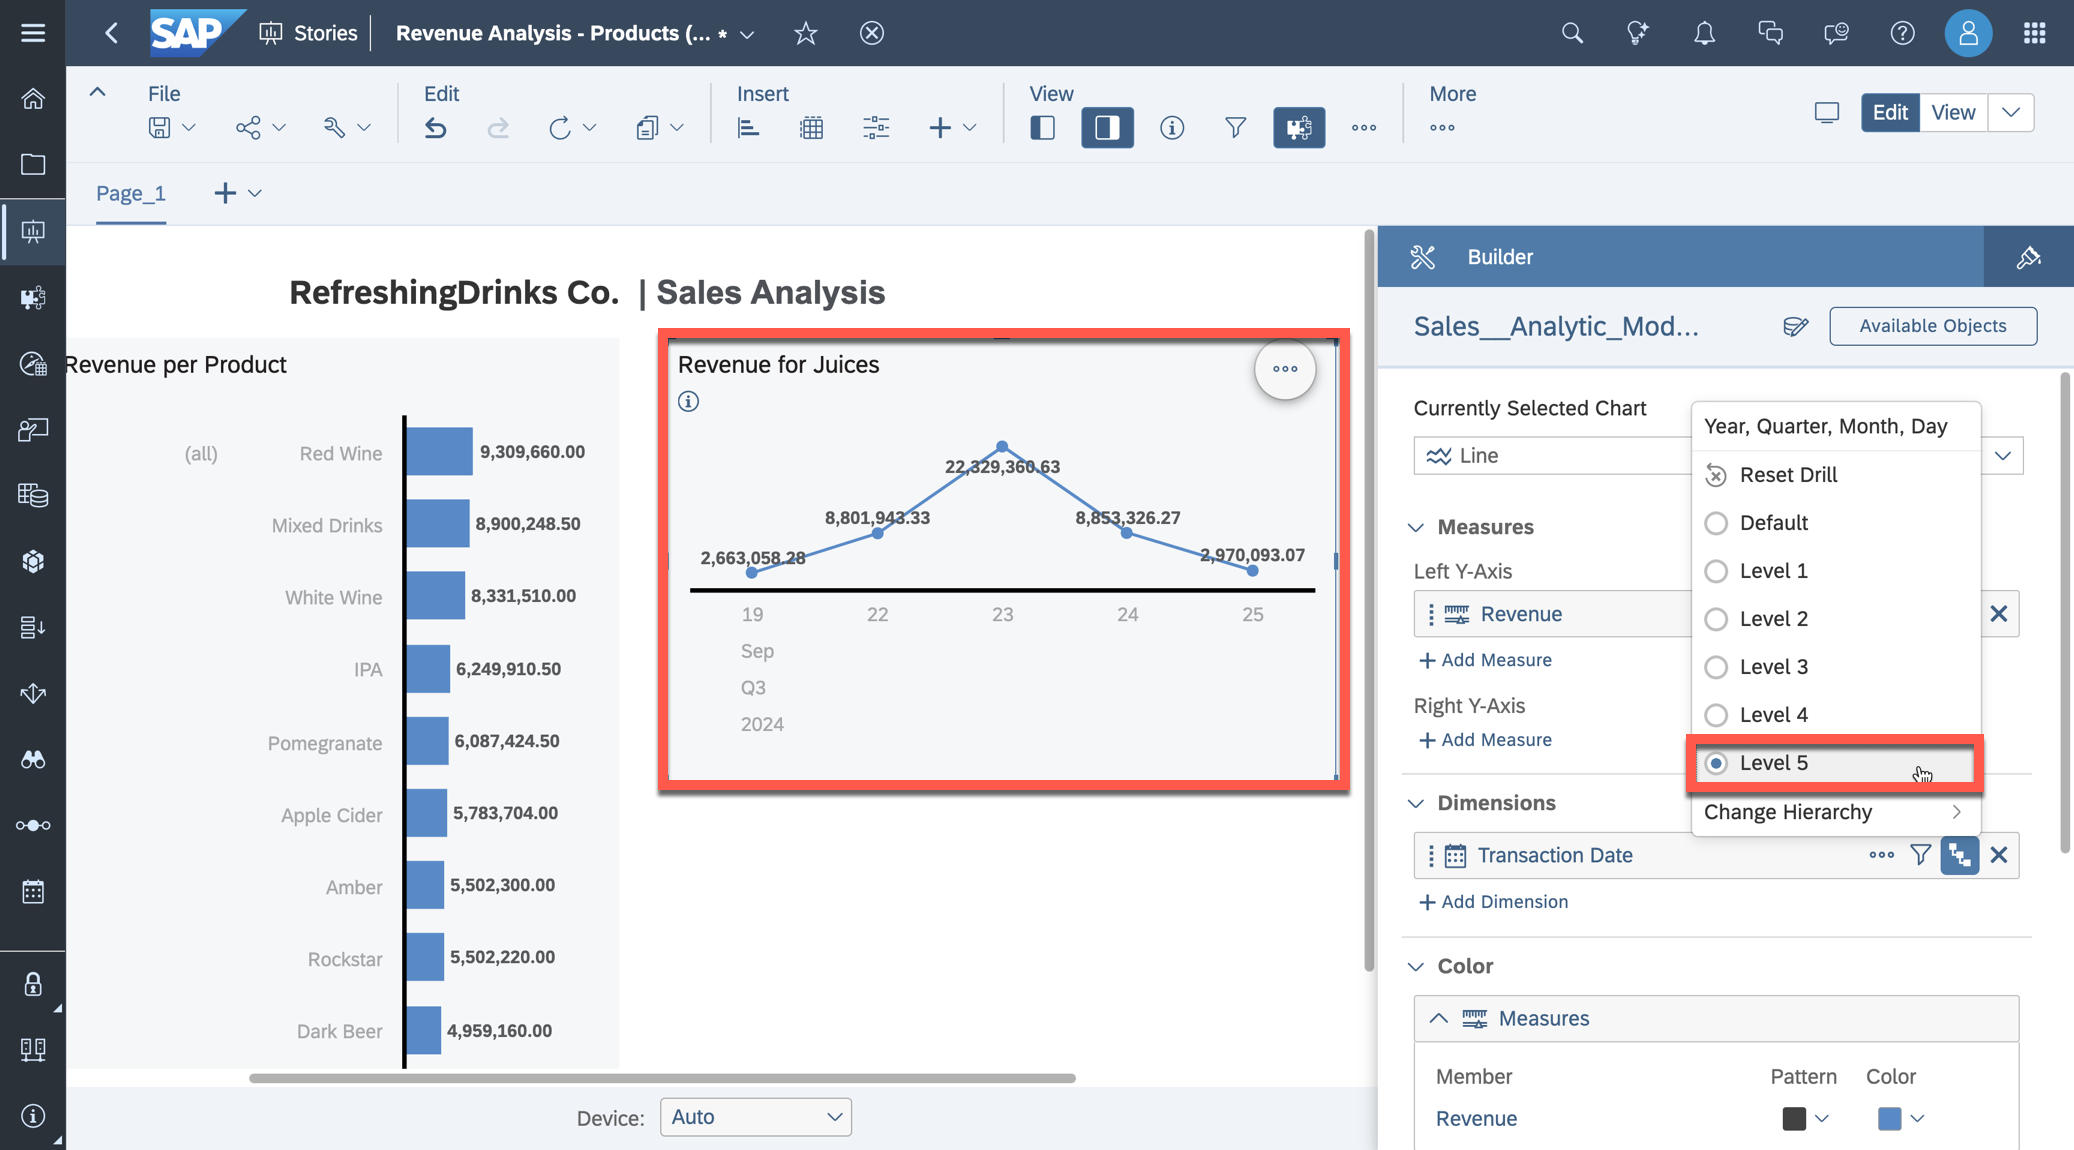
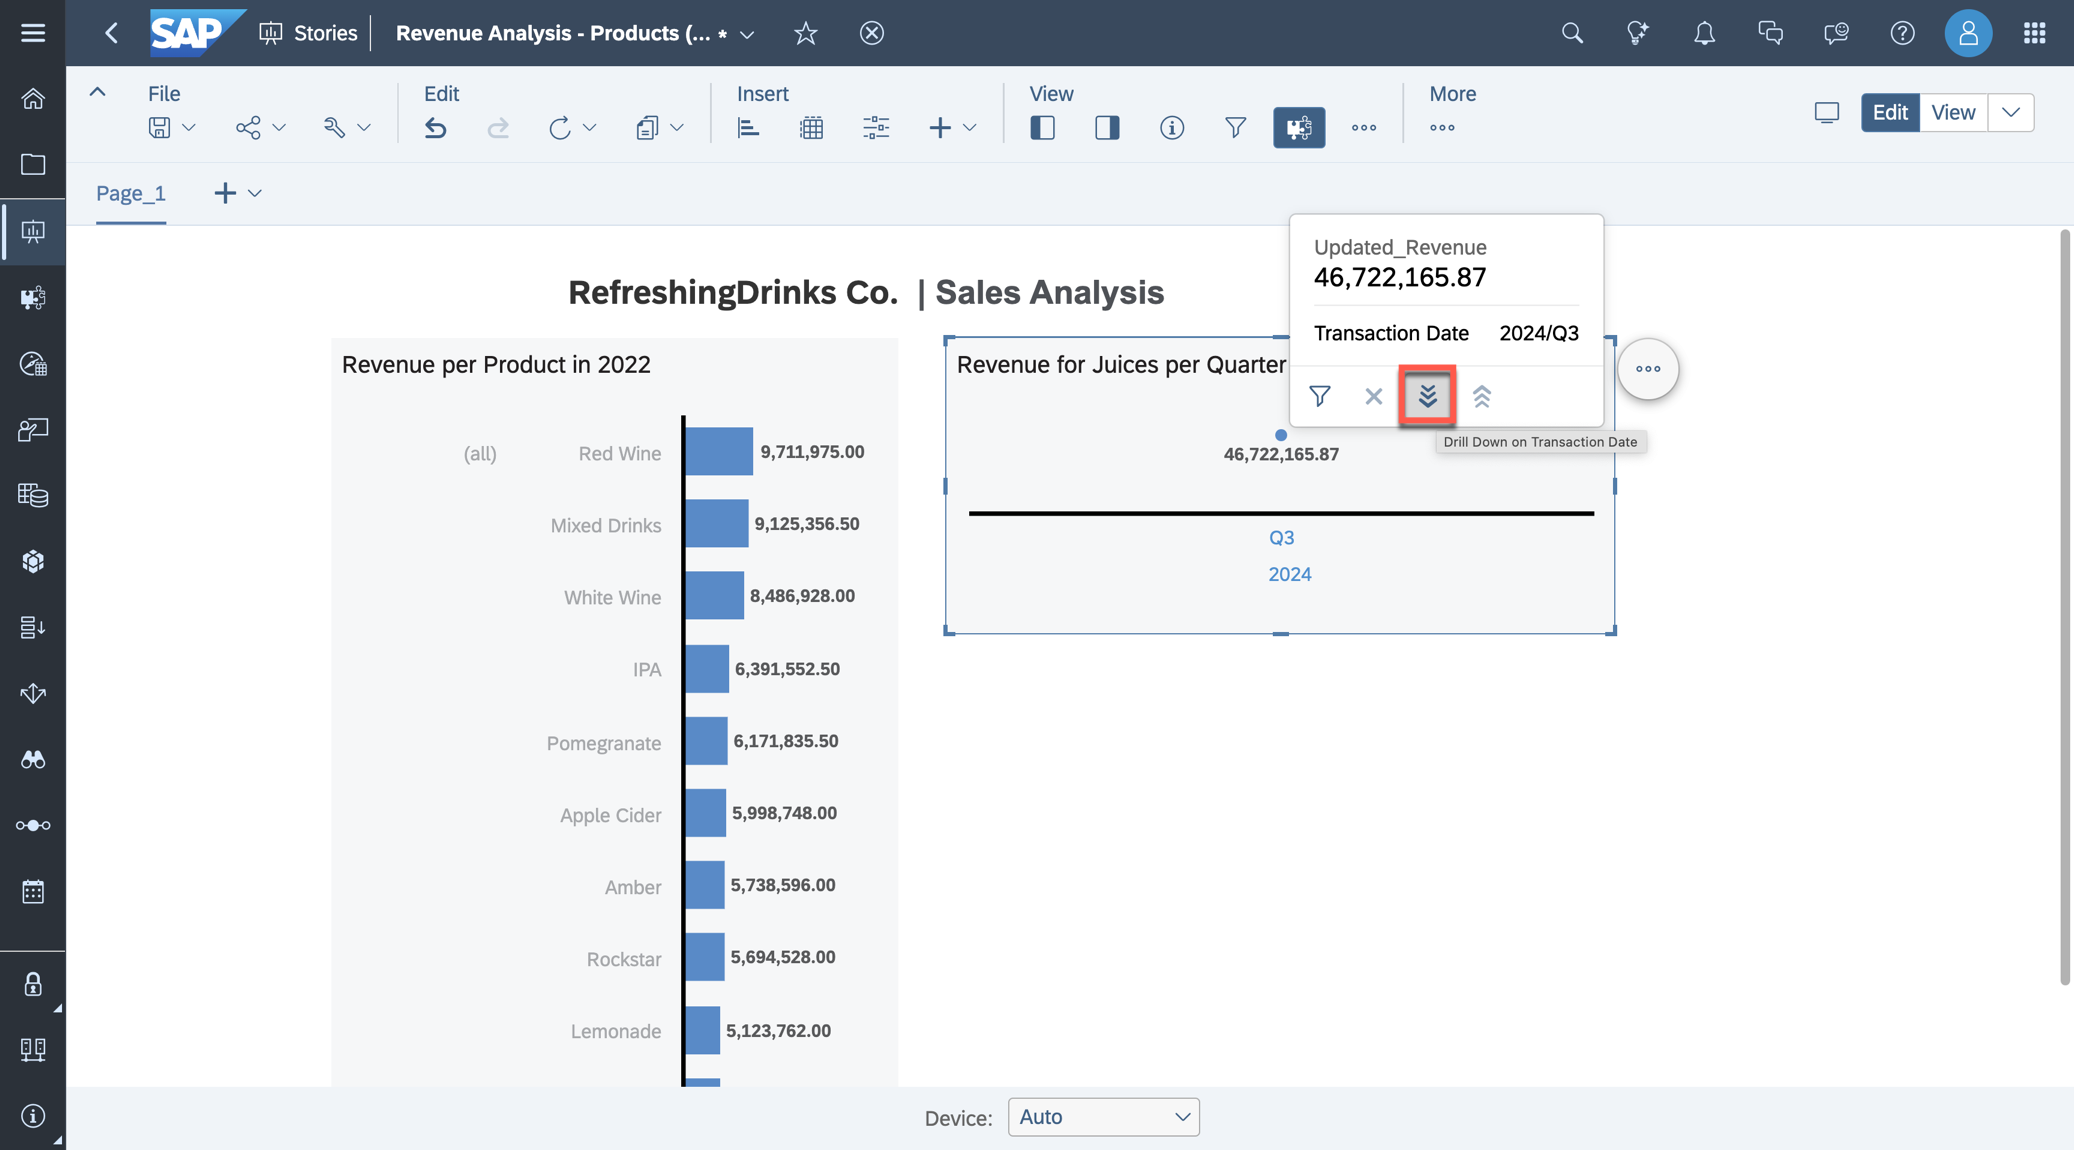
Update Replace SAP Analytics Cloud

diff --git a/exercises/ex23/README.md b/exercises/ex23/README.md
@@ -16,10 +16,10 @@ You don't have to recreate your full story if you want to replace the data sourc
 ## End of Detour
 
 ## Start of the exercise
-In this exercise, we will access a shared local table which is delta enabled for sales transactions. New sales transactions are generated in a source system and transferred to SAP Datasphere using a Replication Flow. This happens in a separate admin space of the free trial. 
-Assume that the STORE_ID includes the prefix ***US*** which we remove so that we can map the store id to the dimensions available in the view dimensions.
-We will create a new Analytic Model which accesses the regularly updated data and use the replace model feature in SAC to have a second story accessing the new Analytic Model.
+In this exercise, we will access a shared local table which is delta enabled for sales transactions. New sales transactions are generated in a source system and transferred to SAP Datasphere using a Replication Flow in a central admin space of the tenant. Assume that the store ID includes an additional prefix ***US*** which we need to remove so that we can map the store ID to the dimensions available in the view dimensions.
 
+We will create a new Analytic Model which accesses the regularly updated data and use the replace model feature in SAC to have a second story accessing the new Analytic Model.
+This functionality is beneficial for development activities when you need to transition from one data model to another. Initially, we utilized CSV files, but now we are looking to map the data to a new data source for the sales transactions.
 
 1. Log On to your SAP Datasphere tenant.
 2. Select the menu option ***Data Builder*** on the left-hand side.
@@ -78,7 +78,7 @@ We will create a new Analytic Model which accesses the regularly updated data an
 <br>![](images/00_00_0022.png)  
 
 ---
->:bulb: **Tip:** We create a copy of the fact view to preserve tge previously created models (view, Analytic Model, SAC Story) based on the CSV files. You will copy the existing SAC story and replace the model so that you don't need to recreate a full story. Another option would also be switching the source table of the currently used fact view so that the updated records are displayed in the already existing SAC story. 
+>:bulb: **Tip:** We create a copy of the fact view (and Analytic Model & SAC story) to preserve the previously created models based on the CSV files. You will copy the existing SAC story and replace the model so that you don't need to recreate a full story. Another option would also be switching the source table of the currently used fact view so that the updated records are displayed in the already existing SAC story. 
 ---
 
 21. Open the copied view ***Sales View - Fact (Updated)***. If you previously did the exercise about data access controls, the view will look as displayed on the screenshot. The approach for the view without data access control assigned and join with the product dimension is similar.
@@ -101,9 +101,8 @@ We will create a new Analytic Model which accesses the regularly updated data an
 27. When creating an updated data model, it is likely that measure or attribute names change. To simulate this, select the measure ***Revenue*** and adjust the business and technical name to ***Updated_Revenue***. 
 <br>![](images/00_00_0042.png) 
 
-27. Save the Analytic Model as ***Sales - Analytic Model (Updated)*** and deploy it. Is now accessing delta enabled local table which is receiving updated records. 
-
-28. We will reuse the previously created SAC Story and map it to the new updated Analytic Model so that the report displays the incoming sales transactions.
+28. Save the Analytic Model as ***Sales - Analytic Model (Updated)*** and deploy it. Is now accessing delta enabled local table which is receiving updated records. 
+We will reuse the previously created SAC Story and map it to the new updated Analytic Model so that the report displays the incoming sales transactions.
 
 29. Use the product switch button in the upper right corner to switch to SAC.
 <br>![](images/00_00_0027.png)  
@@ -119,38 +118,31 @@ We will create a new Analytic Model which accesses the regularly updated data an
 33. Read the warning displayed and click ***Continue***.
 <br>![](images/00_00_0031.png)  
 
-34. Read the warning displayed and click ***Continue***.
-<br>![](images/00_00_0031.png)  
+34. Select ***select other model***. You can replace a model in your SAC story with another compatible model, an Analytic Model can be replaced with a different Analytic Model. Choose the connection ***DATASPHERE*** and click on the folder with your user's ID. Select the folder ***TECHED2024-DA180*** and click on the Analytic Model ***Sales - Analytic Model (Updated)***.
 
-35. Select ***select other model***. You can replace a model in your SAC story with another compatible model. Choose the connection ***DATASPHERE*** and click on the folder with your user's ID. Select the folder ***TECHED2024-DA180*** and click on the Analytic Model ***Sales - Analytic Model (Updated)***.
-
-36. The replace model dialog displays the objects from the replacement model and the objects that need to be mapped. Some objects will automatically be mapped if they are similar to the original objects or if they are mandatory objects. Then they will be disabled (greyed out) in this panel. Check that the mappings are done correctly like displayed in the screenshot.
+35. The replace model dialog displays the objects from the replacement model and the objects that need to be mapped (only objects used in the story are mapped). Some objects will automatically be mapped if they are similar to the original objects or if they are mandatory objects. Then they will be disabled (greyed out) in this panel. Map the measure ***Updated_Revenue*** to ***Revenue***. Check that the mappings are done correctly like displayed in the screenshot.
 <br>![](images/00_00_0032.png)
 
-37. When you have finished mapping objects, select ***Review***. Verify that no issues have been found and click ***Replace Model***.
+36. When you have finished mapping objects, select ***Review***. Verify that no issues have been found and click ***Replace Model***.
 <br>![](images/00_00_0033.png)
 
-38. The story now accesses data from the new source. The filter for revenue per product is set to 2022. As there is no data available for this year, now data is displayed. We will modify the story in the next steps.
+37. The story now accesses data from the new source. The filter for revenue per product is set to 2022. As there is no data available for this year, now data is displayed. We will modify the story in the next steps.
 <br>![](images/00_00_0036.png)
 
-39. The story now accesses data from the new source. The filter for revenue per product is set to 2022. As there is no data available for this year, now data is displayed. We will modify the story in the next steps.
-<br>![](images/00_00_0036.png)
-
-40. Select the chart ***Revenue per Product in 2022*** and remove the filter set for ***Transaction Date***.
+38. Select the chart ***Revenue per Product in 2022*** and remove the filter set for ***Transaction Date***.
 <br>![](images/00_00_0037.png)
 
-41. The revenue per product is displayed. Please note that the visible products depend on the permissions you defined in [exercise 21](../ex21/README.md).
+40. The revenue per product is displayed. Please note that the visible products depend on the permissions you defined in [exercise 21](../ex21/README.md).
 <br>![](images/00_00_0038.png)
 
-42. We would like to receive a daily summary of recent sales of juices from the past few days. Modify the second chart and set the drill level for transaction date to level 5.
+41. We would like to receive a daily summary of recent sales of juices from the past few days. Drill down on the transaction date until it is based on days (click twice on the ***Drill Down*** button).
 <br>![](images/00_00_0039.png)
 
-43. Arrange the transaction date in ascending order, from earliest to latest.
-<br>![](images/00_00_0040.png)
+42. Save the story. You are asked if you want to remove the unused model, select ***Remove data source***.
 
-44. Save the story. You are asked if you want to remove the unused model, select ***Remove data source***.
+43. Your final report dynamically displays the most recent beverage sales, allowing you to analyze the changes in revenue from sold juices over the past few days.
+<br>![](images/00_00_0043.png)
 
-45. Your final report shows the most recent sales of beverages dynamically.
 
 ## Summary
 
